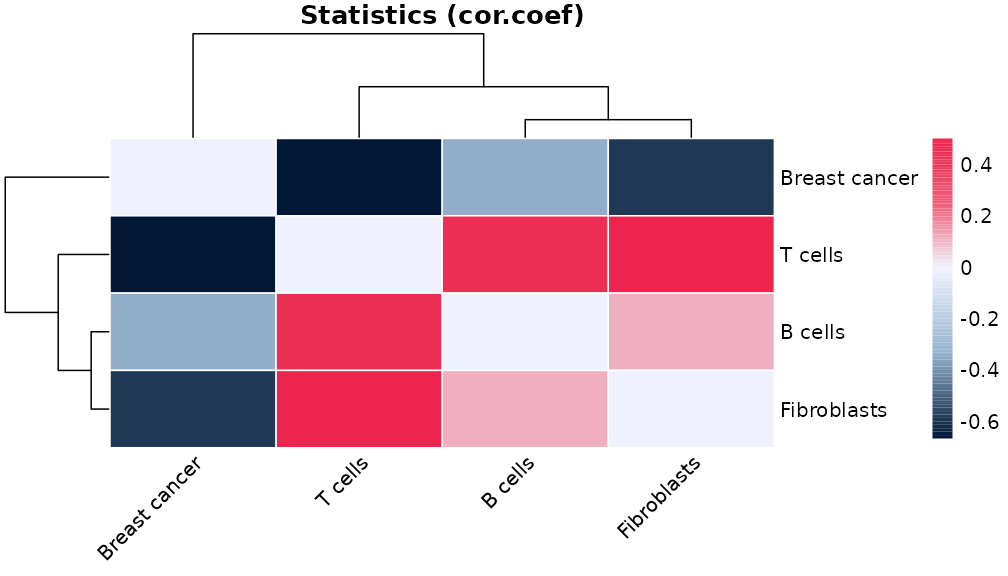
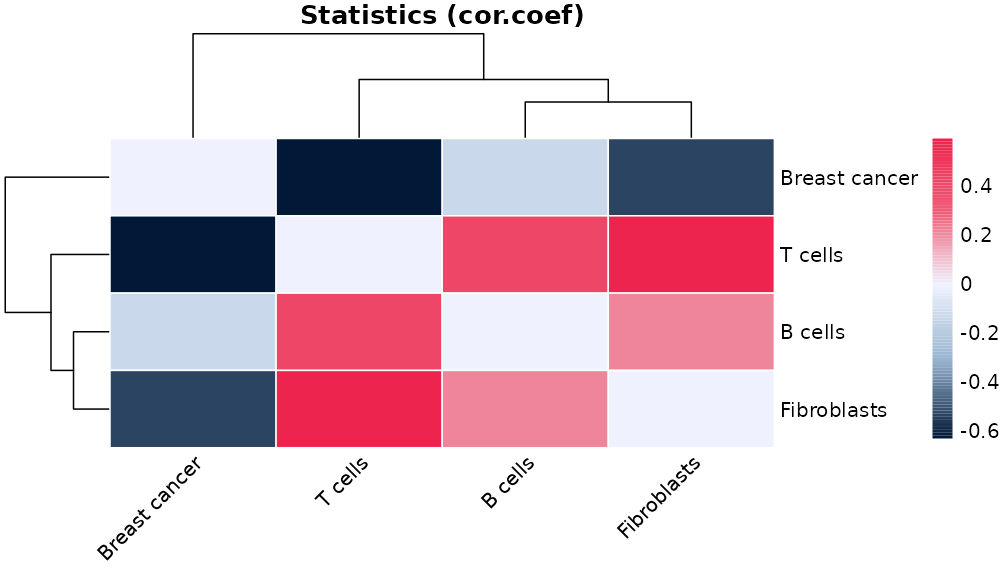
Deploying to gh-pages from @ ChenLaboratory/scider@d7cf56036fe4ffc77cf59218dbde03ddee618322 🚀

diff --git a/articles/scider_userGuide.html b/articles/scider_userGuide.html
@@ -75,7 +75,7 @@
                         <h4 data-toc-skip class="author">Ning Liu,
 Mengbo Li, Yunshun Chen</h4>
             
-            <h4 data-toc-skip class="date">2024-01-25</h4>
+            <h4 data-toc-skip class="date">2024-01-29</h4>
       
       <small class="dont-index">Source: <a href="https://github.com/ChenLaboratory/scider/blob/HEAD/vignettes/scider_userGuide.Rmd" class="external-link"><code>vignettes/scider_userGuide.Rmd</code></a></small>
       <div class="d-none name"><code>scider_userGuide.Rmd</code></div>
@@ -228,20 +228,20 @@ object.</p>
 <code class="sourceCode R"><span><span class="va">spe</span> <span class="op">&lt;-</span> <span class="fu"><a href="../reference/findROI.html">findROI</a></span><span class="op">(</span><span class="va">spe</span>, coi <span class="op">=</span> <span class="va">coi</span><span class="op">)</span></span>
 <span></span>
 <span><span class="fu">metadata</span><span class="op">(</span><span class="va">spe</span><span class="op">)</span><span class="op">$</span><span class="va">roi</span></span></code></pre></div>
-<pre><code><span><span class="co">## DataFrame with 1640 rows and 6 columns</span></span>
+<pre><code><span><span class="co">## DataFrame with 1627 rows and 6 columns</span></span>
 <span><span class="co">##      component     members           x           y    xcoord    ycoord</span></span>
 <span><span class="co">##       &lt;factor&gt; &lt;character&gt; &lt;character&gt; &lt;character&gt; &lt;numeric&gt; &lt;numeric&gt;</span></span>
-<span><span class="co">## 1            1       72-86          72          86   7168.50   8360.26</span></span>
-<span><span class="co">## 2            1       72-87          72          87   7168.50   8456.21</span></span>
-<span><span class="co">## 3            1       73-84          73          84   7264.83   8168.34</span></span>
-<span><span class="co">## 4            1       73-85          73          85   7264.83   8264.30</span></span>
-<span><span class="co">## 5            1       73-86          73          86   7264.83   8360.26</span></span>
+<span><span class="co">## 1            1       73-97          73          97   7264.83   9415.79</span></span>
+<span><span class="co">## 2            1       73-98          73          98   7264.83   9511.75</span></span>
+<span><span class="co">## 3            1       73-99          73          99   7264.83   9607.71</span></span>
+<span><span class="co">## 4            1       74-95          74          95   7361.16   9223.88</span></span>
+<span><span class="co">## 5            1       74-96          74          96   7361.16   9319.83</span></span>
 <span><span class="co">## ...        ...         ...         ...         ...       ...       ...</span></span>
-<span><span class="co">## 1636        28      46-108          46         108   4663.93   10471.3</span></span>
-<span><span class="co">## 1637        28      46-109          46         109   4663.93   10567.3</span></span>
-<span><span class="co">## 1638        28      47-106          47         106   4760.26   10279.4</span></span>
-<span><span class="co">## 1639        28      47-107          47         107   4760.26   10375.4</span></span>
-<span><span class="co">## 1640        28      47-108          47         108   4760.26   10471.3</span></span></code></pre>
+<span><span class="co">## 1623        27      81-109          81         109   8035.47   10567.3</span></span>
+<span><span class="co">## 1624        27      82-106          82         106   8131.80   10279.4</span></span>
+<span><span class="co">## 1625        27      82-107          82         107   8131.80   10375.4</span></span>
+<span><span class="co">## 1626        27      82-108          82         108   8131.80   10471.3</span></span>
+<span><span class="co">## 1627        27      82-109          82         109   8131.80   10567.3</span></span></code></pre>
 <p>We can visualise the ROIs with function <code>plotROI</code>.</p>
 <div class="sourceCode" id="cb19"><pre class="downlit sourceCode r">
 <code class="sourceCode R"><span><span class="fu"><a href="../reference/plotROI.html">plotROI</a></span><span class="op">(</span><span class="va">spe</span><span class="op">)</span></span></code></pre></div>
@@ -292,33 +292,33 @@ object.</p>
 each ROI.</p>
 <div class="sourceCode" id="cb25"><pre class="downlit sourceCode r">
 <code class="sourceCode R"><span><span class="va">model_result</span><span class="op">$</span><span class="va">ROI</span></span></code></pre></div>
-<pre><code><span><span class="co">## DataFrame with 168 rows and 9 columns</span></span>
+<pre><code><span><span class="co">## DataFrame with 162 rows and 9 columns</span></span>
 <span><span class="co">##       celltype1     celltype2         ROI     ngrid  cor.coef         t</span></span>
 <span><span class="co">##     &lt;character&gt;   &lt;character&gt; &lt;character&gt; &lt;numeric&gt; &lt;numeric&gt; &lt;numeric&gt;</span></span>
-<span><span class="co">## 1   Fibroblasts Breast cancer           1        29 -0.810210 -2.195430</span></span>
-<span><span class="co">## 2   Fibroblasts Breast cancer           2        72 -0.668610 -1.821051</span></span>
-<span><span class="co">## 3   Fibroblasts Breast cancer           3       162 -0.763429 -2.929274</span></span>
-<span><span class="co">## 4   Fibroblasts Breast cancer           4        36 -0.274915 -0.525622</span></span>
-<span><span class="co">## 5   Fibroblasts Breast cancer           5        36 -0.878272 -2.315785</span></span>
+<span><span class="co">## 1   Fibroblasts Breast cancer           1        51 -0.261185 -0.726206</span></span>
+<span><span class="co">## 2   Fibroblasts Breast cancer           2        64 -0.850429 -3.191725</span></span>
+<span><span class="co">## 3   Fibroblasts Breast cancer           3        37 -0.609734 -1.547117</span></span>
+<span><span class="co">## 4   Fibroblasts Breast cancer           4       109 -0.619364 -1.301741</span></span>
+<span><span class="co">## 5   Fibroblasts Breast cancer           5        81 -0.713589 -2.246380</span></span>
 <span><span class="co">## ...         ...           ...         ...       ...       ...       ...</span></span>
-<span><span class="co">## 164     T cells       B cells          24        24  0.321072  0.885167</span></span>
-<span><span class="co">## 165     T cells       B cells          25        68  0.658631  1.791641</span></span>
-<span><span class="co">## 166     T cells       B cells          26        36 -0.208312 -0.440867</span></span>
-<span><span class="co">## 167     T cells       B cells          27        22 -0.780090 -1.739028</span></span>
-<span><span class="co">## 168     T cells       B cells          28        22  0.970415  6.607850</span></span>
-<span><span class="co">##            df     p.Pos     p.Neg</span></span>
-<span><span class="co">##     &lt;numeric&gt; &lt;numeric&gt; &lt;numeric&gt;</span></span>
-<span><span class="co">## 1     2.52260  0.933764 0.0662360</span></span>
-<span><span class="co">## 2     4.10197  0.929540 0.0704600</span></span>
-<span><span class="co">## 3     6.14190  0.987197 0.0128029</span></span>
-<span><span class="co">## 4     3.37927  0.684141 0.3158586</span></span>
-<span><span class="co">## 5     1.58960  0.910855 0.0891448</span></span>
-<span><span class="co">## ...       ...       ...       ...</span></span>
-<span><span class="co">## 164   6.81704 0.2031018  0.796898</span></span>
-<span><span class="co">## 165   4.18977 0.0722069  0.927793</span></span>
-<span><span class="co">## 166   4.28468 0.6596756  0.340324</span></span>
-<span><span class="co">## 167   1.94541 0.8861726  0.113827</span></span>
-<span><span class="co">## 168   2.70293 0.0048402  0.995160</span></span></code></pre>
+<span><span class="co">## 158     T cells       B cells          23        35  0.256837  0.588082</span></span>
+<span><span class="co">## 159     T cells       B cells          24        32  0.593693  1.300636</span></span>
+<span><span class="co">## 160     T cells       B cells          25        23  0.949763  5.778241</span></span>
+<span><span class="co">## 161     T cells       B cells          26        23  0.692722  1.719319</span></span>
+<span><span class="co">## 162     T cells       B cells          27        20  0.236879  0.534743</span></span>
+<span><span class="co">##            df      p.Pos     p.Neg</span></span>
+<span><span class="co">##     &lt;numeric&gt;  &lt;numeric&gt; &lt;numeric&gt;</span></span>
+<span><span class="co">## 1     7.20338   0.754685 0.2453153</span></span>
+<span><span class="co">## 2     3.89846   0.982807 0.0171933</span></span>
+<span><span class="co">## 3     4.04464   0.902016 0.0979838</span></span>
+<span><span class="co">## 4     2.72278   0.853903 0.1460965</span></span>
+<span><span class="co">## 5     4.86369   0.961945 0.0380552</span></span>
+<span><span class="co">## ...       ...        ...       ...</span></span>
+<span><span class="co">## 158   4.89692 0.29127441  0.708726</span></span>
+<span><span class="co">## 159   3.10775 0.14071356  0.859286</span></span>
+<span><span class="co">## 160   3.62552 0.00299803  0.997002</span></span>
+<span><span class="co">## 161   3.20414 0.08909362  0.910906</span></span>
+<span><span class="co">## 162   4.81012 0.30830407  0.691696</span></span></code></pre>
 <p>Or the correlation between breast cancer and fibroblasts across the
 whole slide:</p>
 <div class="sourceCode" id="cb27"><pre class="downlit sourceCode r">
@@ -326,12 +326,12 @@ whole slide:</p>
 <pre><code><span><span class="co">## DataFrame with 6 rows and 5 columns</span></span>
 <span><span class="co">##       celltype1     celltype2  cor.coef       p.Pos       p.Neg</span></span>
 <span><span class="co">##     &lt;character&gt;   &lt;character&gt; &lt;numeric&gt;   &lt;numeric&gt;   &lt;numeric&gt;</span></span>
-<span><span class="co">## 1   Fibroblasts Breast cancer -0.588355 9.99553e-01 1.46490e-10</span></span>
-<span><span class="co">## 2   Fibroblasts       T cells  0.500595 2.64942e-06 9.96745e-01</span></span>
-<span><span class="co">## 3   Fibroblasts       B cells  0.115157 9.12185e-02 5.23180e-01</span></span>
-<span><span class="co">## 4 Breast cancer       T cells -0.667864 9.99960e-01 1.65284e-11</span></span>
-<span><span class="co">## 5 Breast cancer       B cells -0.345501 9.87806e-01 1.29475e-04</span></span>
-<span><span class="co">## 6       T cells       B cells  0.453378 9.48117e-07 9.20867e-01</span></span></code></pre>
+<span><span class="co">## 1   Fibroblasts Breast cancer -0.533620 9.99967e-01 6.01577e-08</span></span>
+<span><span class="co">## 2   Fibroblasts       T cells  0.593064 1.36192e-07 9.99697e-01</span></span>
+<span><span class="co">## 3   Fibroblasts       B cells  0.219668 1.66538e-02 6.99226e-01</span></span>
+<span><span class="co">## 4 Breast cancer       T cells -0.633887 9.96068e-01 7.65064e-12</span></span>
+<span><span class="co">## 5 Breast cancer       B cells -0.130037 3.96428e-01 1.94609e-03</span></span>
+<span><span class="co">## 6       T cells       B cells  0.422464 2.22015e-07 9.88677e-01</span></span></code></pre>
 <p>We can also visualise the fitting using function
 <code>plotDensCor</code>.</p>
 <div class="sourceCode" id="cb29"><pre class="downlit sourceCode r">
@@ -443,7 +443,7 @@ using function <code>allocateCells</code>.</p>
 <span><span class="co">##  [73] scales_1.3.0            xtable_1.8-4            class_7.3-22           </span></span>
 <span><span class="co">##  [76] glue_1.7.0              janitor_2.2.0           pheatmap_1.0.12        </span></span>
 <span><span class="co">##  [79] lazyeval_0.2.2          tools_4.3.2             data.table_1.14.10     </span></span>
-<span><span class="co">##  [82] fs_1.6.3                grid_4.3.2              tidyr_1.3.0            </span></span>
+<span><span class="co">##  [82] fs_1.6.3                grid_4.3.2              tidyr_1.3.1            </span></span>
 <span><span class="co">##  [85] colorspace_2.1-0        nlme_3.1-163            GenomeInfoDbData_1.2.11</span></span>
 <span><span class="co">##  [88] fastmatrix_0.5-772      cli_3.6.2               spatstat.sparse_3.0-3  </span></span>
 <span><span class="co">##  [91] textshaping_0.3.7       fansi_1.0.6             S4Arrays_1.2.0         </span></span>

diff --git a/reference/plotCorHeatmap.html b/reference/plotCorHeatmap.html
@@ -132,7 +132,6 @@ to be plotted.</p></dd>
 <span class="r-out co"><span class="r-pr">#&gt;</span> i = 1 , j = 2 , ROI 25 </span>
 <span class="r-out co"><span class="r-pr">#&gt;</span> i = 1 , j = 2 , ROI 26 </span>
 <span class="r-out co"><span class="r-pr">#&gt;</span> i = 1 , j = 2 , ROI 27 </span>
-<span class="r-out co"><span class="r-pr">#&gt;</span> i = 1 , j = 2 , ROI 28 </span>
 <span class="r-out co"><span class="r-pr">#&gt;</span> i = 1 , j = 3 , ROI 1 </span>
 <span class="r-out co"><span class="r-pr">#&gt;</span> i = 1 , j = 3 , ROI 2 </span>
 <span class="r-out co"><span class="r-pr">#&gt;</span> i = 1 , j = 3 , ROI 3 </span>
@@ -160,7 +159,6 @@ to be plotted.</p></dd>
 <span class="r-out co"><span class="r-pr">#&gt;</span> i = 1 , j = 3 , ROI 25 </span>
 <span class="r-out co"><span class="r-pr">#&gt;</span> i = 1 , j = 3 , ROI 26 </span>
 <span class="r-out co"><span class="r-pr">#&gt;</span> i = 1 , j = 3 , ROI 27 </span>
-<span class="r-out co"><span class="r-pr">#&gt;</span> i = 1 , j = 3 , ROI 28 </span>
 <span class="r-out co"><span class="r-pr">#&gt;</span> i = 1 , j = 4 , ROI 1 </span>
 <span class="r-out co"><span class="r-pr">#&gt;</span> i = 1 , j = 4 , ROI 2 </span>
 <span class="r-out co"><span class="r-pr">#&gt;</span> i = 1 , j = 4 , ROI 3 </span>
@@ -188,7 +186,6 @@ to be plotted.</p></dd>
 <span class="r-out co"><span class="r-pr">#&gt;</span> i = 1 , j = 4 , ROI 25 </span>
 <span class="r-out co"><span class="r-pr">#&gt;</span> i = 1 , j = 4 , ROI 26 </span>
 <span class="r-out co"><span class="r-pr">#&gt;</span> i = 1 , j = 4 , ROI 27 </span>
-<span class="r-out co"><span class="r-pr">#&gt;</span> i = 1 , j = 4 , ROI 28 </span>
 <span class="r-out co"><span class="r-pr">#&gt;</span> i = 2 , j = 3 , ROI 1 </span>
 <span class="r-out co"><span class="r-pr">#&gt;</span> i = 2 , j = 3 , ROI 2 </span>
 <span class="r-out co"><span class="r-pr">#&gt;</span> i = 2 , j = 3 , ROI 3 </span>
@@ -216,7 +213,6 @@ to be plotted.</p></dd>
 <span class="r-out co"><span class="r-pr">#&gt;</span> i = 2 , j = 3 , ROI 25 </span>
 <span class="r-out co"><span class="r-pr">#&gt;</span> i = 2 , j = 3 , ROI 26 </span>
 <span class="r-out co"><span class="r-pr">#&gt;</span> i = 2 , j = 3 , ROI 27 </span>
-<span class="r-out co"><span class="r-pr">#&gt;</span> i = 2 , j = 3 , ROI 28 </span>
 <span class="r-out co"><span class="r-pr">#&gt;</span> i = 2 , j = 4 , ROI 1 </span>
 <span class="r-out co"><span class="r-pr">#&gt;</span> i = 2 , j = 4 , ROI 2 </span>
 <span class="r-out co"><span class="r-pr">#&gt;</span> i = 2 , j = 4 , ROI 3 </span>
@@ -244,7 +240,6 @@ to be plotted.</p></dd>
 <span class="r-out co"><span class="r-pr">#&gt;</span> i = 2 , j = 4 , ROI 25 </span>
 <span class="r-out co"><span class="r-pr">#&gt;</span> i = 2 , j = 4 , ROI 26 </span>
 <span class="r-out co"><span class="r-pr">#&gt;</span> i = 2 , j = 4 , ROI 27 </span>
-<span class="r-out co"><span class="r-pr">#&gt;</span> i = 2 , j = 4 , ROI 28 </span>
 <span class="r-out co"><span class="r-pr">#&gt;</span> i = 3 , j = 4 , ROI 1 </span>
 <span class="r-out co"><span class="r-pr">#&gt;</span> i = 3 , j = 4 , ROI 2 </span>
 <span class="r-out co"><span class="r-pr">#&gt;</span> i = 3 , j = 4 , ROI 3 </span>
@@ -272,7 +267,6 @@ to be plotted.</p></dd>
 <span class="r-out co"><span class="r-pr">#&gt;</span> i = 3 , j = 4 , ROI 25 </span>
 <span class="r-out co"><span class="r-pr">#&gt;</span> i = 3 , j = 4 , ROI 26 </span>
 <span class="r-out co"><span class="r-pr">#&gt;</span> i = 3 , j = 4 , ROI 27 </span>
-<span class="r-out co"><span class="r-pr">#&gt;</span> i = 3 , j = 4 , ROI 28 </span>
 <span class="r-in"><span></span></span>
 <span class="r-in"><span><span class="fu">plotCorHeatmap</span><span class="op">(</span><span class="va">model_result</span><span class="op">$</span><span class="va">ROI</span><span class="op">)</span></span></span>
 <span class="r-plt img"><img src="plotCorHeatmap-1.png" alt="" width="700" height="433"></span>

diff --git a/reference/corDensity.html b/reference/corDensity.html
@@ -122,7 +122,6 @@ previously calculated in the gridDensity() step.</p></dd>
 <span class="r-out co"><span class="r-pr">#&gt;</span> i = 1 , j = 2 , ROI 25 </span>
 <span class="r-out co"><span class="r-pr">#&gt;</span> i = 1 , j = 2 , ROI 26 </span>
 <span class="r-out co"><span class="r-pr">#&gt;</span> i = 1 , j = 2 , ROI 27 </span>
-<span class="r-out co"><span class="r-pr">#&gt;</span> i = 1 , j = 2 , ROI 28 </span>
 <span class="r-out co"><span class="r-pr">#&gt;</span> i = 1 , j = 3 , ROI 1 </span>
 <span class="r-out co"><span class="r-pr">#&gt;</span> i = 1 , j = 3 , ROI 2 </span>
 <span class="r-out co"><span class="r-pr">#&gt;</span> i = 1 , j = 3 , ROI 3 </span>
@@ -150,7 +149,6 @@ previously calculated in the gridDensity() step.</p></dd>
 <span class="r-out co"><span class="r-pr">#&gt;</span> i = 1 , j = 3 , ROI 25 </span>
 <span class="r-out co"><span class="r-pr">#&gt;</span> i = 1 , j = 3 , ROI 26 </span>
 <span class="r-out co"><span class="r-pr">#&gt;</span> i = 1 , j = 3 , ROI 27 </span>
-<span class="r-out co"><span class="r-pr">#&gt;</span> i = 1 , j = 3 , ROI 28 </span>
 <span class="r-out co"><span class="r-pr">#&gt;</span> i = 1 , j = 4 , ROI 1 </span>
 <span class="r-out co"><span class="r-pr">#&gt;</span> i = 1 , j = 4 , ROI 2 </span>
 <span class="r-out co"><span class="r-pr">#&gt;</span> i = 1 , j = 4 , ROI 3 </span>
@@ -178,7 +176,6 @@ previously calculated in the gridDensity() step.</p></dd>
 <span class="r-out co"><span class="r-pr">#&gt;</span> i = 1 , j = 4 , ROI 25 </span>
 <span class="r-out co"><span class="r-pr">#&gt;</span> i = 1 , j = 4 , ROI 26 </span>
 <span class="r-out co"><span class="r-pr">#&gt;</span> i = 1 , j = 4 , ROI 27 </span>
-<span class="r-out co"><span class="r-pr">#&gt;</span> i = 1 , j = 4 , ROI 28 </span>
 <span class="r-out co"><span class="r-pr">#&gt;</span> i = 2 , j = 3 , ROI 1 </span>
 <span class="r-out co"><span class="r-pr">#&gt;</span> i = 2 , j = 3 , ROI 2 </span>
 <span class="r-out co"><span class="r-pr">#&gt;</span> i = 2 , j = 3 , ROI 3 </span>
@@ -206,7 +203,6 @@ previously calculated in the gridDensity() step.</p></dd>
 <span class="r-out co"><span class="r-pr">#&gt;</span> i = 2 , j = 3 , ROI 25 </span>
 <span class="r-out co"><span class="r-pr">#&gt;</span> i = 2 , j = 3 , ROI 26 </span>
 <span class="r-out co"><span class="r-pr">#&gt;</span> i = 2 , j = 3 , ROI 27 </span>
-<span class="r-out co"><span class="r-pr">#&gt;</span> i = 2 , j = 3 , ROI 28 </span>
 <span class="r-out co"><span class="r-pr">#&gt;</span> i = 2 , j = 4 , ROI 1 </span>
 <span class="r-out co"><span class="r-pr">#&gt;</span> i = 2 , j = 4 , ROI 2 </span>
 <span class="r-out co"><span class="r-pr">#&gt;</span> i = 2 , j = 4 , ROI 3 </span>
@@ -234,7 +230,6 @@ previously calculated in the gridDensity() step.</p></dd>
 <span class="r-out co"><span class="r-pr">#&gt;</span> i = 2 , j = 4 , ROI 25 </span>
 <span class="r-out co"><span class="r-pr">#&gt;</span> i = 2 , j = 4 , ROI 26 </span>
 <span class="r-out co"><span class="r-pr">#&gt;</span> i = 2 , j = 4 , ROI 27 </span>
-<span class="r-out co"><span class="r-pr">#&gt;</span> i = 2 , j = 4 , ROI 28 </span>
 <span class="r-out co"><span class="r-pr">#&gt;</span> i = 3 , j = 4 , ROI 1 </span>
 <span class="r-out co"><span class="r-pr">#&gt;</span> i = 3 , j = 4 , ROI 2 </span>
 <span class="r-out co"><span class="r-pr">#&gt;</span> i = 3 , j = 4 , ROI 3 </span>
@@ -262,7 +257,6 @@ previously calculated in the gridDensity() step.</p></dd>
 <span class="r-out co"><span class="r-pr">#&gt;</span> i = 3 , j = 4 , ROI 25 </span>
 <span class="r-out co"><span class="r-pr">#&gt;</span> i = 3 , j = 4 , ROI 26 </span>
 <span class="r-out co"><span class="r-pr">#&gt;</span> i = 3 , j = 4 , ROI 27 </span>
-<span class="r-out co"><span class="r-pr">#&gt;</span> i = 3 , j = 4 , ROI 28 </span>
 <span class="r-in"><span></span></span>
 </code></pre></div>
     </div>

diff --git a/reference/findROI.html b/reference/findROI.html
@@ -66,6 +66,8 @@
 <span>  diag.nodes <span class="op">=</span> <span class="cn">FALSE</span>,</span>
 <span>  sequential.roi.name <span class="op">=</span> <span class="cn">TRUE</span>,</span>
 <span>  directed <span class="op">=</span> <span class="cn">FALSE</span>,</span>
+<span>  zoom.in <span class="op">=</span> <span class="cn">FALSE</span>,</span>
+<span>  zoom.in.size <span class="op">=</span> <span class="fl">500L</span>,</span>
 <span>  <span class="va">...</span></span>
 <span><span class="op">)</span></span></code></pre></div>
     </div>
@@ -110,6 +112,16 @@ filtering are retained.</p></dd>
 <dt>directed</dt>
 <dd><p>Logical. For graph-based approaches, whether to build a
 directed graph.</p></dd>
+
+
+<dt>zoom.in</dt>
+<dd><p>Logical. For very large ROIs, whether to zoom in and try
+to get more refined ROIs.</p></dd>
+
+
+<dt>zoom.in.size</dt>
+<dd><p>A numeric scaler. Smallest size of an ROI to be able
+to zoom in. Default is 500L.</p></dd>
 
 
 <dt>...</dt>
